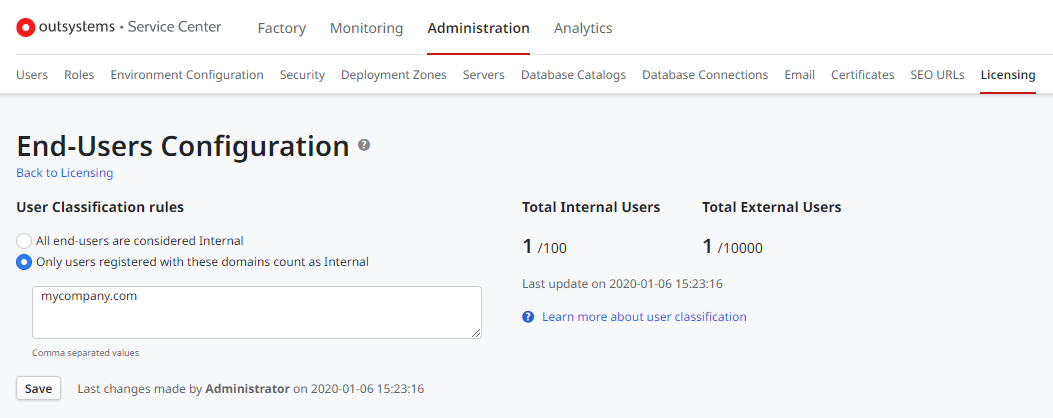
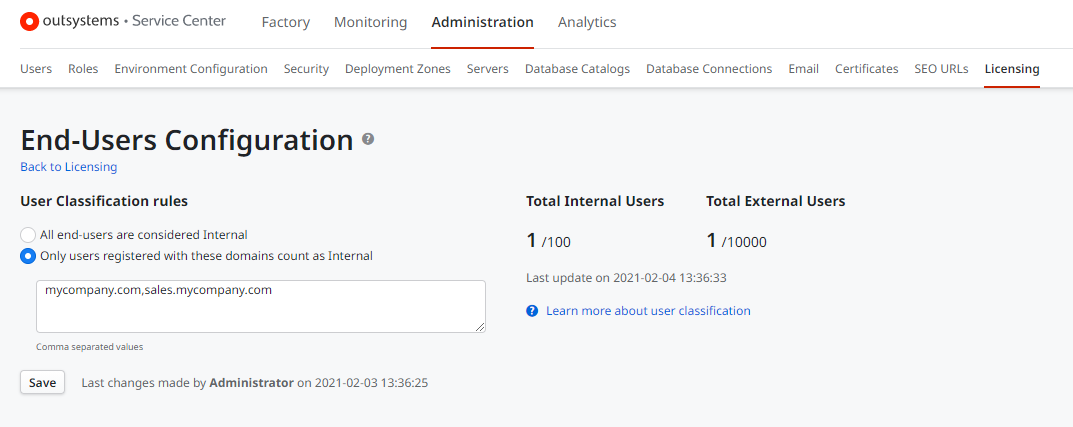
Changes in the article to reflect the new way of configuring external users

diff --git a/src/develop/security/end-user-manage/classify-internal-users.md b/src/develop/security/end-user-manage/classify-internal-users.md
@@ -12,40 +12,81 @@ Applies to OutSystems licenses purchased after January 2020.
 
 OutSystems identifies two different types of registered end users for licensing purposes: [**Internal Users** and **External Users**](intro.md#internal-external).
 
-You can classify all Registered Users whose email address contains a specific domain (for example, `mycompany.com`) as Internal Users, while all other Registered Users are considered External Users.
+OutSystems classifies registered users according to the following rules:
 
-The list of one or more domains used to identify users as Internal Users is defined in **classification rules**. All users whose email address contains one of the domains contained in the classification rules are considered **Internal Users**. Every other Registered User is considered an **External User**.
+![](images/classify_internal_users.png?width=750)
 
-For example, if you set the classification rules to `mycompany.com`:
+*When adding a new environment, all your users are internal by default. [Check here how to configure external users](https://success.outsystems.com/Documentation/11/Developing_an_Application/Secure_the_Application/End_User_Management/Classify_Users_as_Internal_Users#Configuring_the_users_to_be_internal_or_external
+).
 
-* A Registered User whose email address is `scott.green@mycompany.com` is considered an Internal User.
-* A Registered User whose email address is `scarlett.doe@outsourcing.com` is considered an External User.
+## Defining user classification rules
 
-The user classification rules are checked against the user's email address field, if it contains a value, or to the username, if the field value contains an email address. Any Registered Users that do not have a valid email address in one of these fields are classified as Internal Users.
+Classification rules are configured per environment using Service Center, and you can have different classification rules in different environments. 
 
-The configuration of classification rules is done per environment in Service Center, and you can configure different classification rules in different environments. OutSystems checks for registered [active users](add-delete-users.md#activate-deactivate) when determining the number of Internal/External Users in an environment.
+<div class="info" markdown="1">
+Note that when adding a new environment, all your users are internal by default.
+</div>
 
-Note that this classification applies only to Registered Users (or Named Users). Anonymous Users are not taken into account for this classification. Check [End User Management](intro.md) for more information on end user classification.
+OutSystems checks for registered [active users](add-delete-users.md#activate-deactivate) when determining the number of Internal/External Users in an environment. Also, user classification in Internal Users or External Users applies only to **Registered Users** (or Named Users). 
 
-## Define user classification rules
+Anonymous Users aren't taken into account for this classification. Check [End User Management](intro.md) for more information on end user classification.
 
-To define the list of domain names used to identify Internal Users do the following:
+So, let’s look at these rules in detail.
+
+### Ensuring that users are ready to be classified as Internal and External
+
+To be able to configure your users as internal or external make sure that:
+
+1. Your users have a valid email address. This email address **can exist** in the **Username** field or **Email** field of [your user](add-delete-users.md).
+
+1. You keep in mind that **users without a valid email address will always be classified as Internal Users**.
+
+### Configuring the users to be internal or external 
+
+You can configure your users to be internal or external by using Internal User domains. The **User Classification rules** field can contain one or more domains separated by commas.
+
+OutSystems considers that a subdomain is a different value from its domain. To classify users based on a subdomain, add a value to the **User Classification rules*** field for the subdomain.
+
+For example, to classify a user with the email address `scott.green@sales.mycompany.com` as an Internal User, the **User Classification rules** field value must contain the `sales.mycompany.com` subdomain.
+
+**To configure your internal user domains, do the following:**
 
 1. Open the Service Center management console of your environment.
 
 1. Navigate to **Administration** > **Licensing** and click the "End-Users Configuration" link.
 
-1. In "User Classification Rules", select the option "Only users registered with these domains count as Internal" and enter the domain names associated with the email addresses of Internal Users. Separate each domain with a comma.
+1. In **User Classification Rules**, select the option **Only users registered with these domains count as Internal** and enter the domain names associated with the email addresses of Internal Users. 
 
-    E.g., `mycompany.com`
+    Separate multiple domains using a `,` (comma) character.
+
+    For example, `mycompany.com` and `sales.mycompany.com`:
 
     ![](images/sc-user-classification-rules.png?width=900)
 
-1. Press **Save**.
+1. Click **Save**.
 
-After saving your changes, OutSystems starts the process of obtaining the current Internal/External User count. This process might take a few minutes. The "Last update on" label displays the finish date/time of the last user count process.
+After saving your changes, OutSystems starts the process of obtaining the current Internal/External User count. This process might take a few minutes. The **Last update on** label displays the finish date/time of the last user count process.
 
-## Check the total number of Internal/External Users
+## User classification examples
+
+Let’s look to some examples on how to classify users.
+
+In this example, consider that the following user domains were added in the User Classification rules field:
+
+`mycompany.com,sales.mycompany.com`
+
+By adding these two domains, the following examples detail the classification of each user according to their Email and Username attribute values:
+
+|Username|Email|User Classification|
+|---|---|---|
+|sgreen|scott.green@mycompany.com|Considered an **Internal User**|
+|sgreen|scott.green@sales.mycompany.com|Considered an **Internal User**|
+|jane.green@mycompany.com|`<empty>`|Considered an **Internal User**|
+|sjones|scarlett.jones@outsourcing.com|Considered an **External User**|
+|sdavidson|samantha.davidson@finance.mycompany.com|Considered an **External User**, because classification rules consider subdomains different from domains (`sales.mycompany.com <> mycompany.com`)|
+|mjohnson|`<empty>`|Considered an **Internal User**|
+
+## Check the total number of Internal/External users
 
 You can check the current usage of Internal and External Users — both the total number of each end user type and their distribution per User Provider — for a given environment in Service Center.
 
@@ -59,4 +100,4 @@ To check the number of Internal/External Users do the following:
 
 This page displays the total number of Internal and External Users, as well as their distribution per User Provider in the current environment. 
 
-Note: The process of determining the current user count is executed based on a timer, and therefore the displayed user count values might not reflect the exact user count.
+**Note:** A timer executes the process of determining the current user count, and therefore the displayed user count values might not reflect the exact user count.
